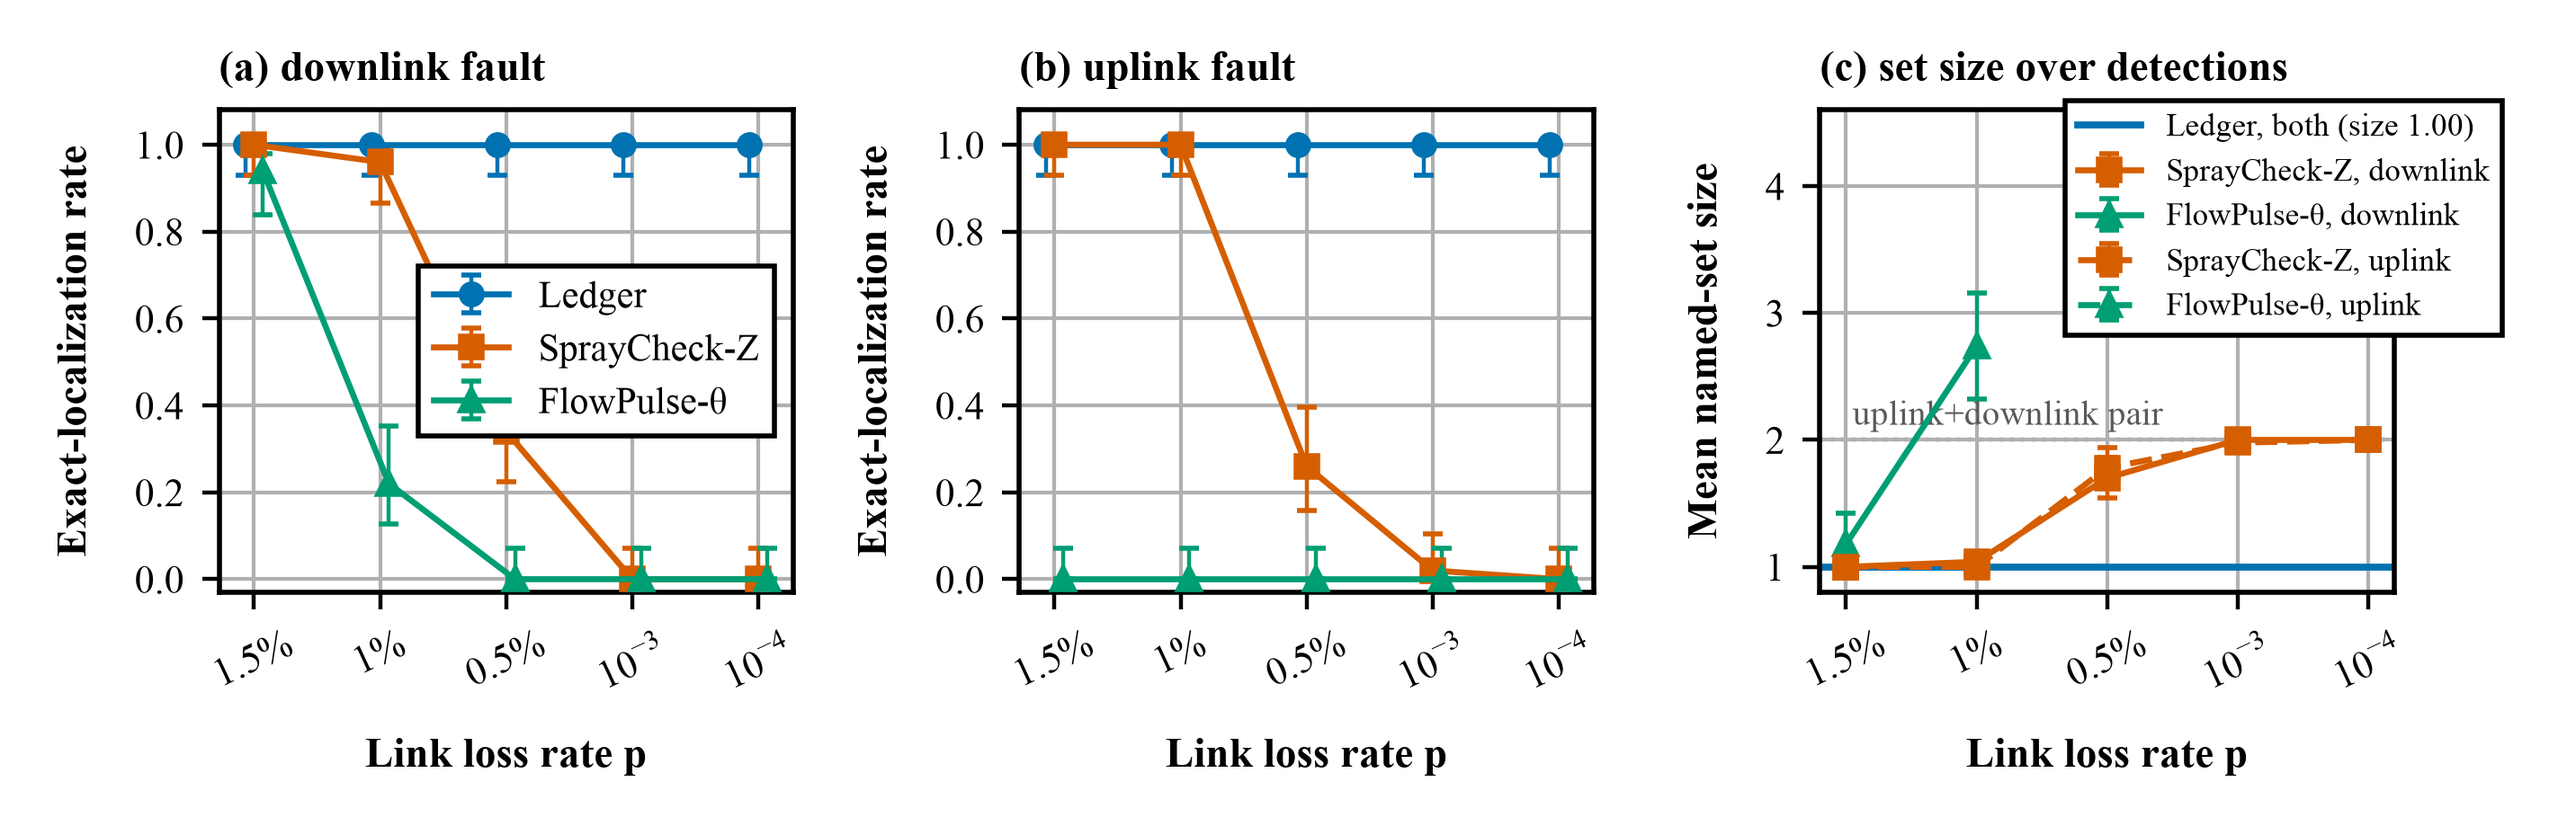
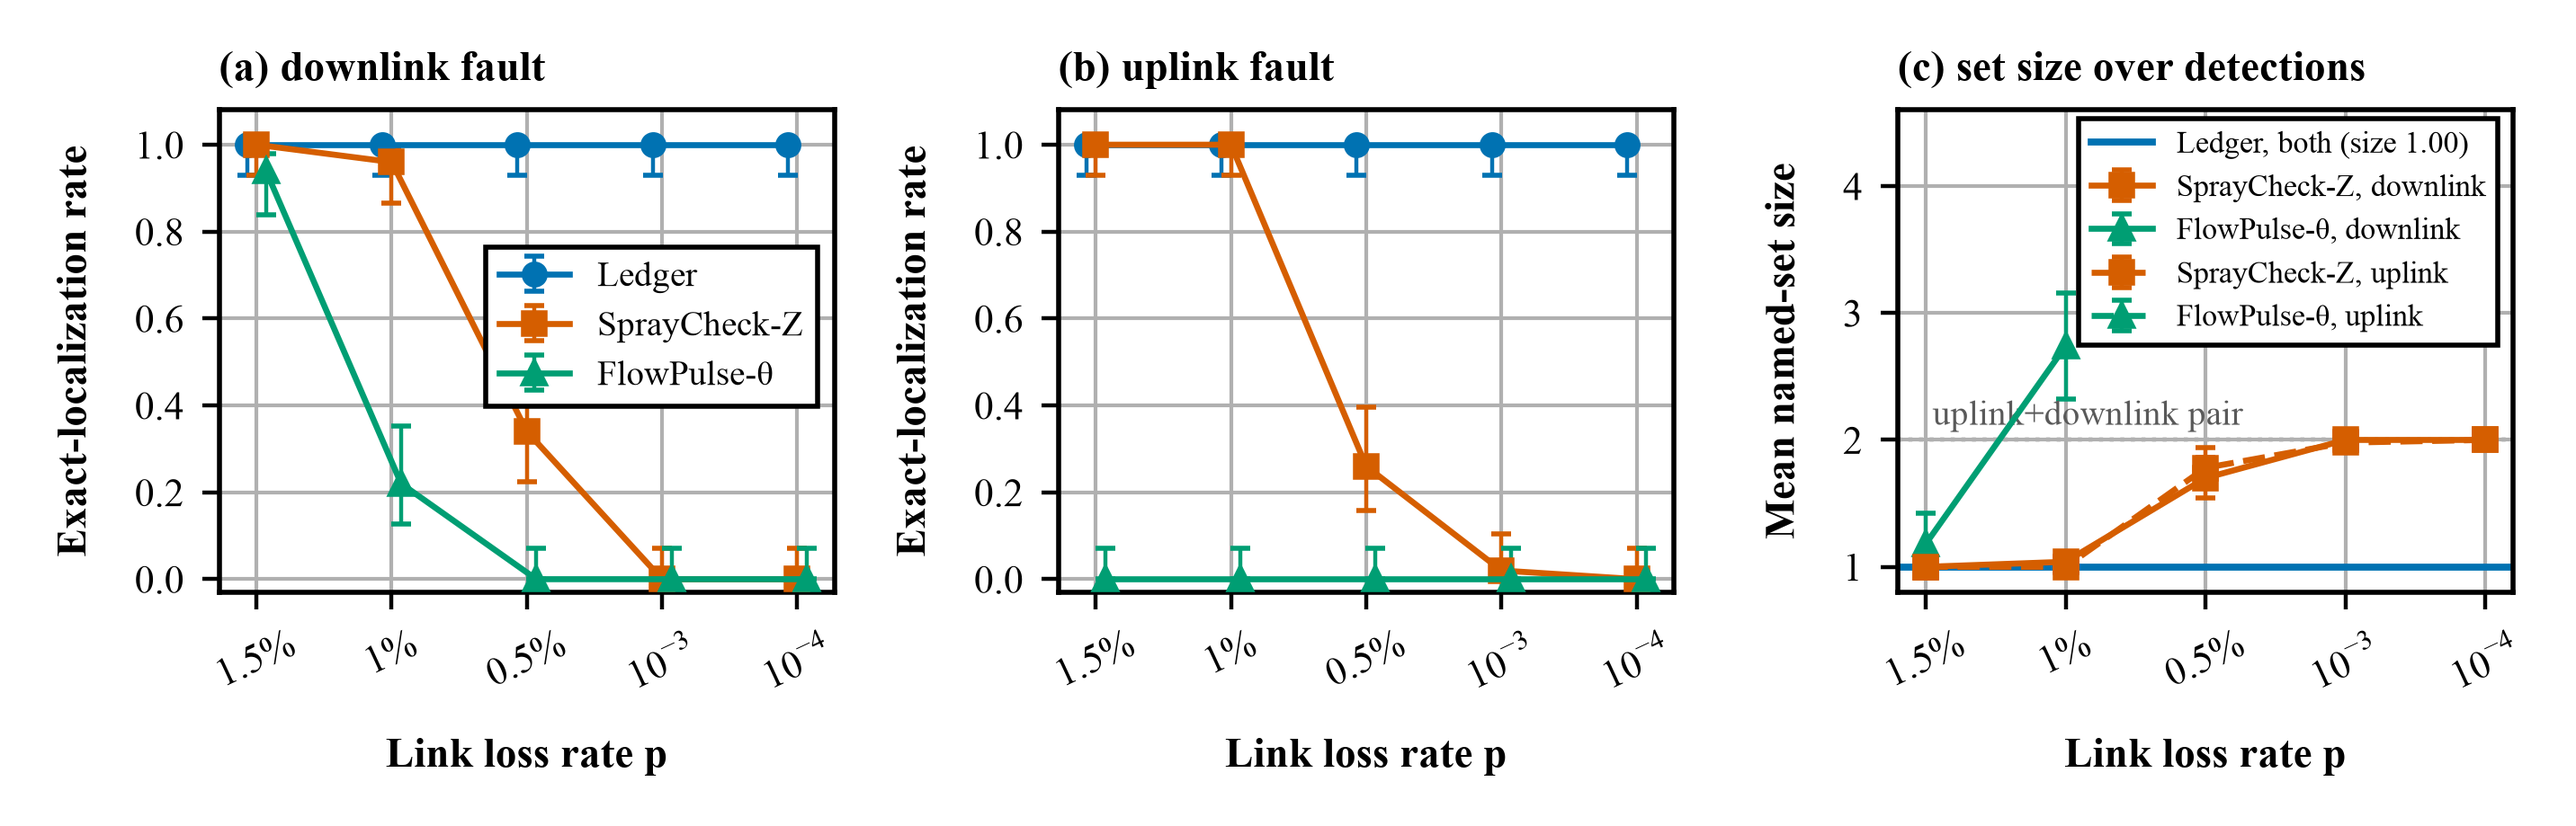
Figure 4: move both legends off the data

diff --git a/paper/ton/figures/fig_localization.py b/paper/ton/figures/fig_localization.py
@@ -48,8 +48,8 @@ ax.set_xlabel(r"Link loss rate $p$")
 ax.set_ylabel("Mean named-set size")
 utils_mpl.set_y_axis(ax, bnd=[0.8, 4.6])
 ax.set_title("(c) set size over detections", fontsize=8.5, loc="left")
-axes[0].legend(loc="center right", framealpha=1.0)
-ax.legend(loc="lower left", bbox_to_anchor=(0.40, 0.50), framealpha=1.0, fontsize=6.3)
+axes[0].legend(loc="center right", bbox_to_anchor=(1.0, 0.55), framealpha=1.0, fontsize=7)
+ax.legend(loc="lower right", bbox_to_anchor=(1.0, 0.48), framealpha=1.0, fontsize=6.1)
 for a in axes:
     utils_mpl.set_grid(fig, a)
 fig.savefig("fig_localization.pdf", transparent=False)
